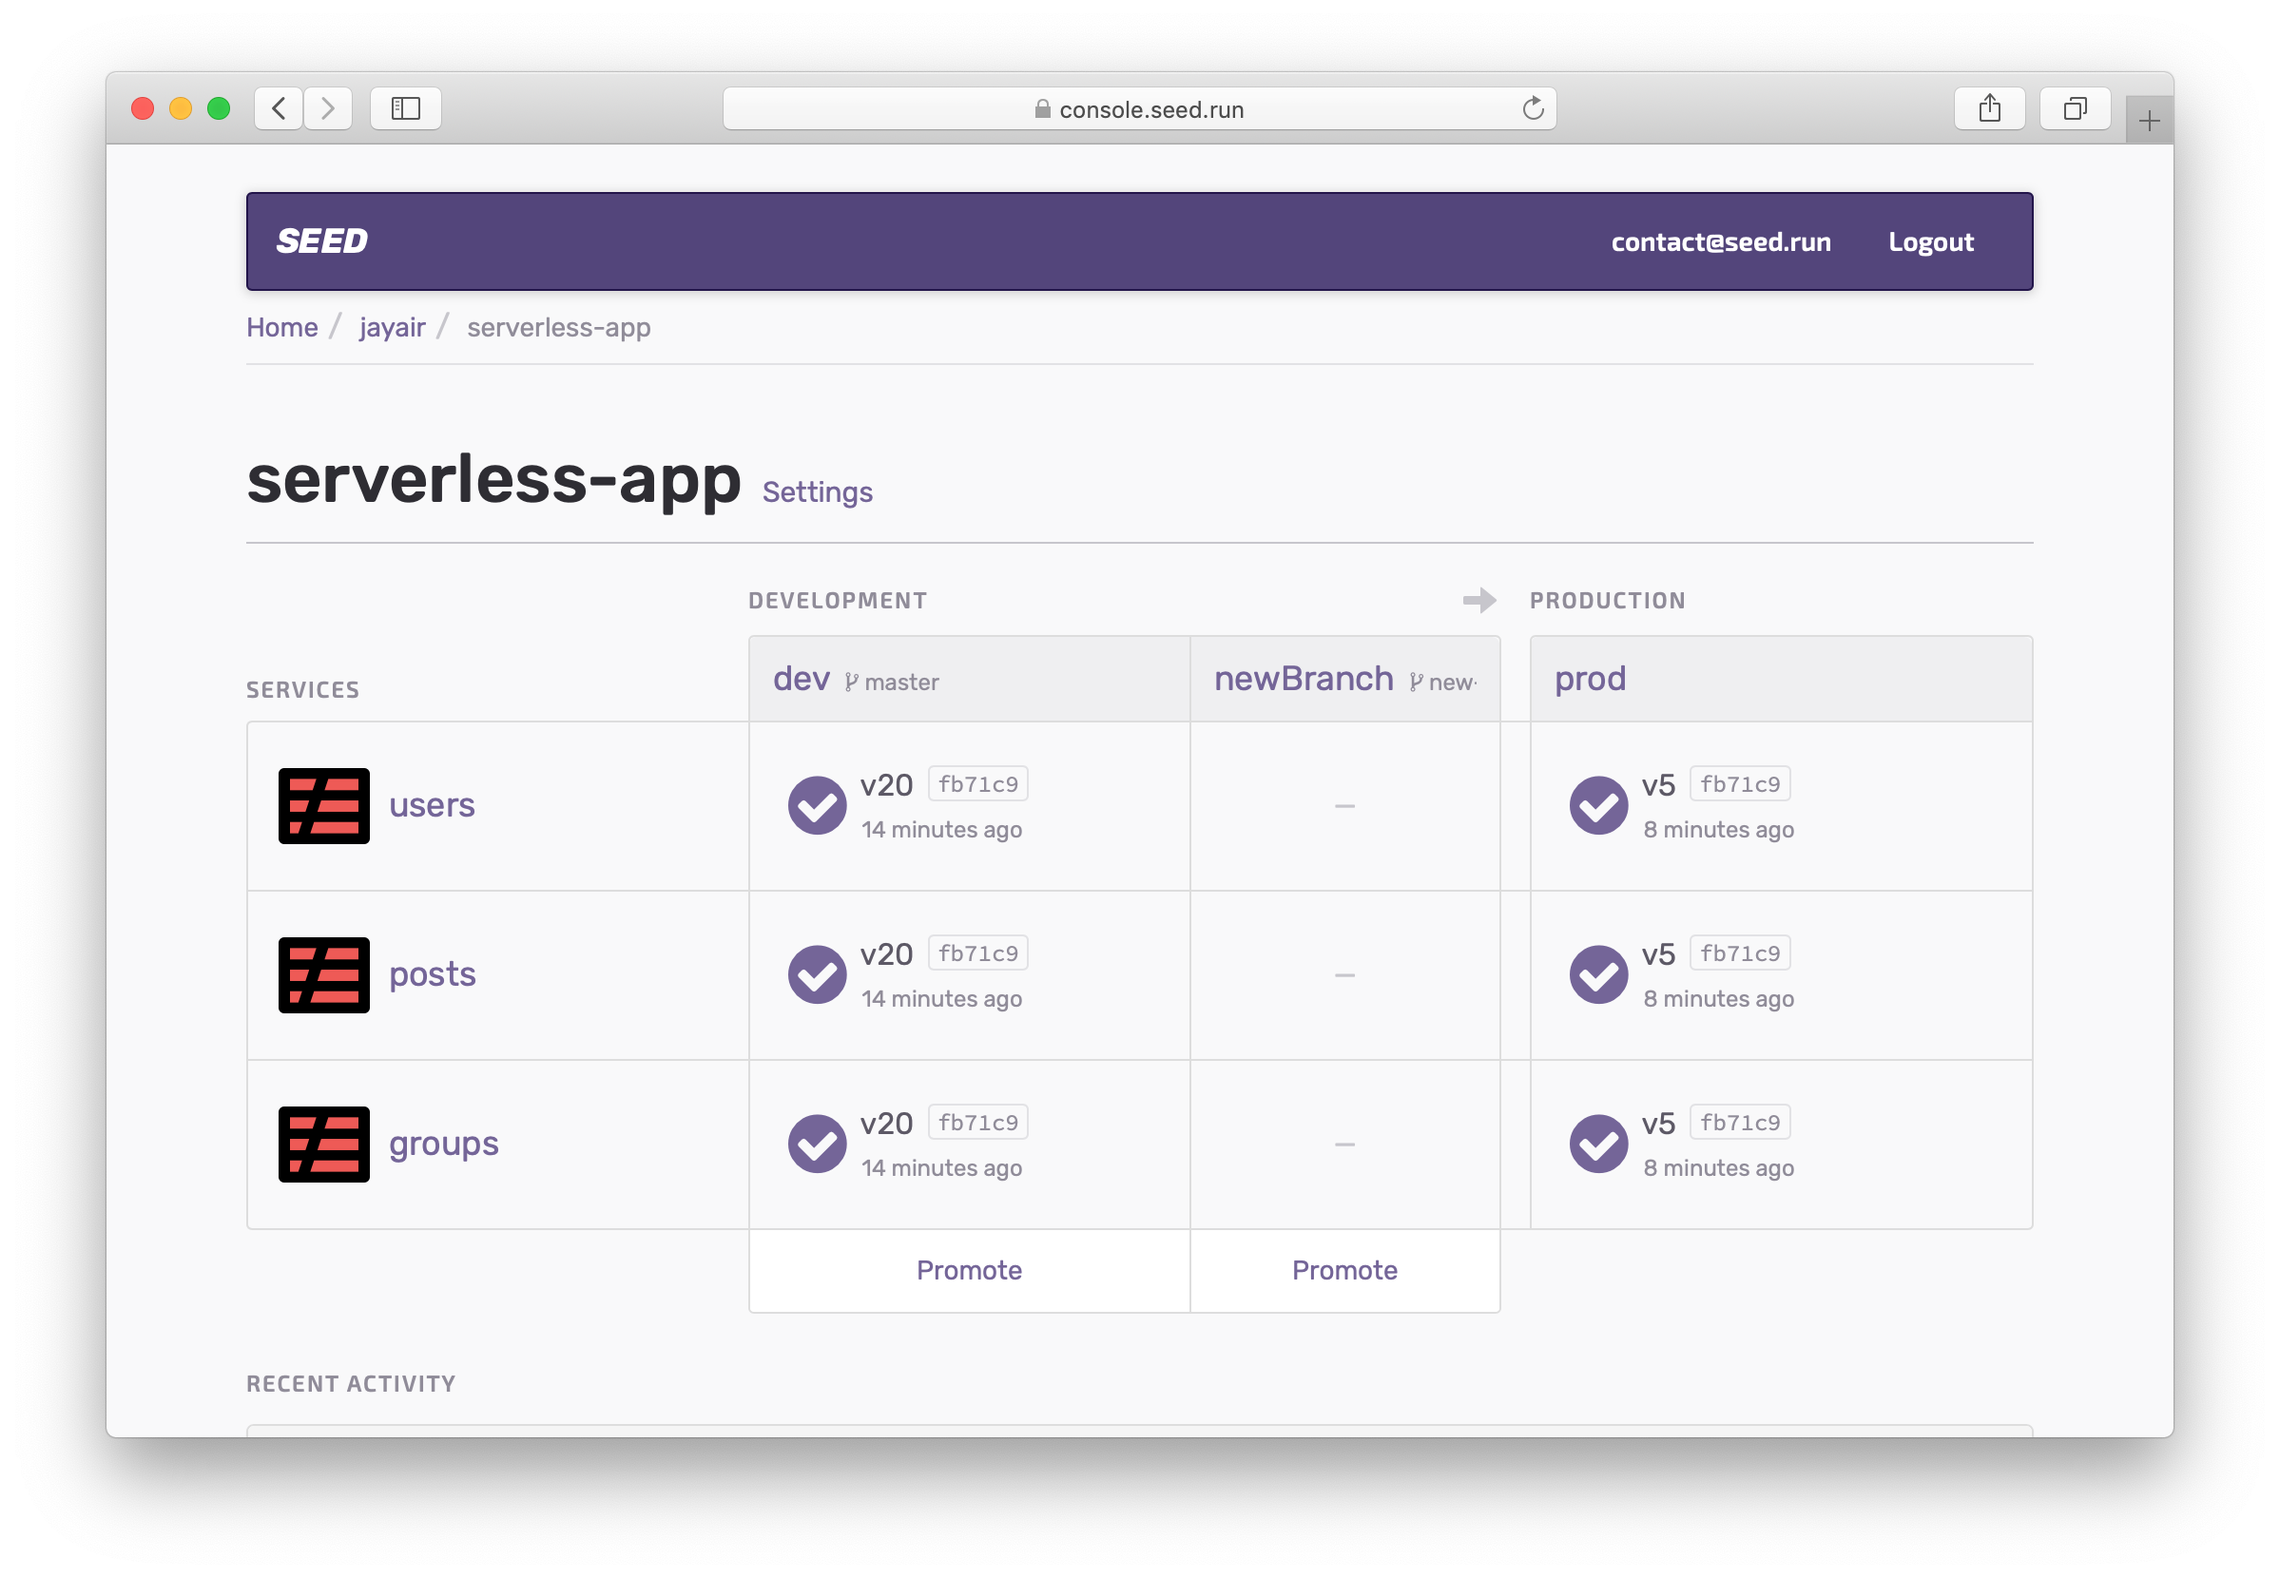
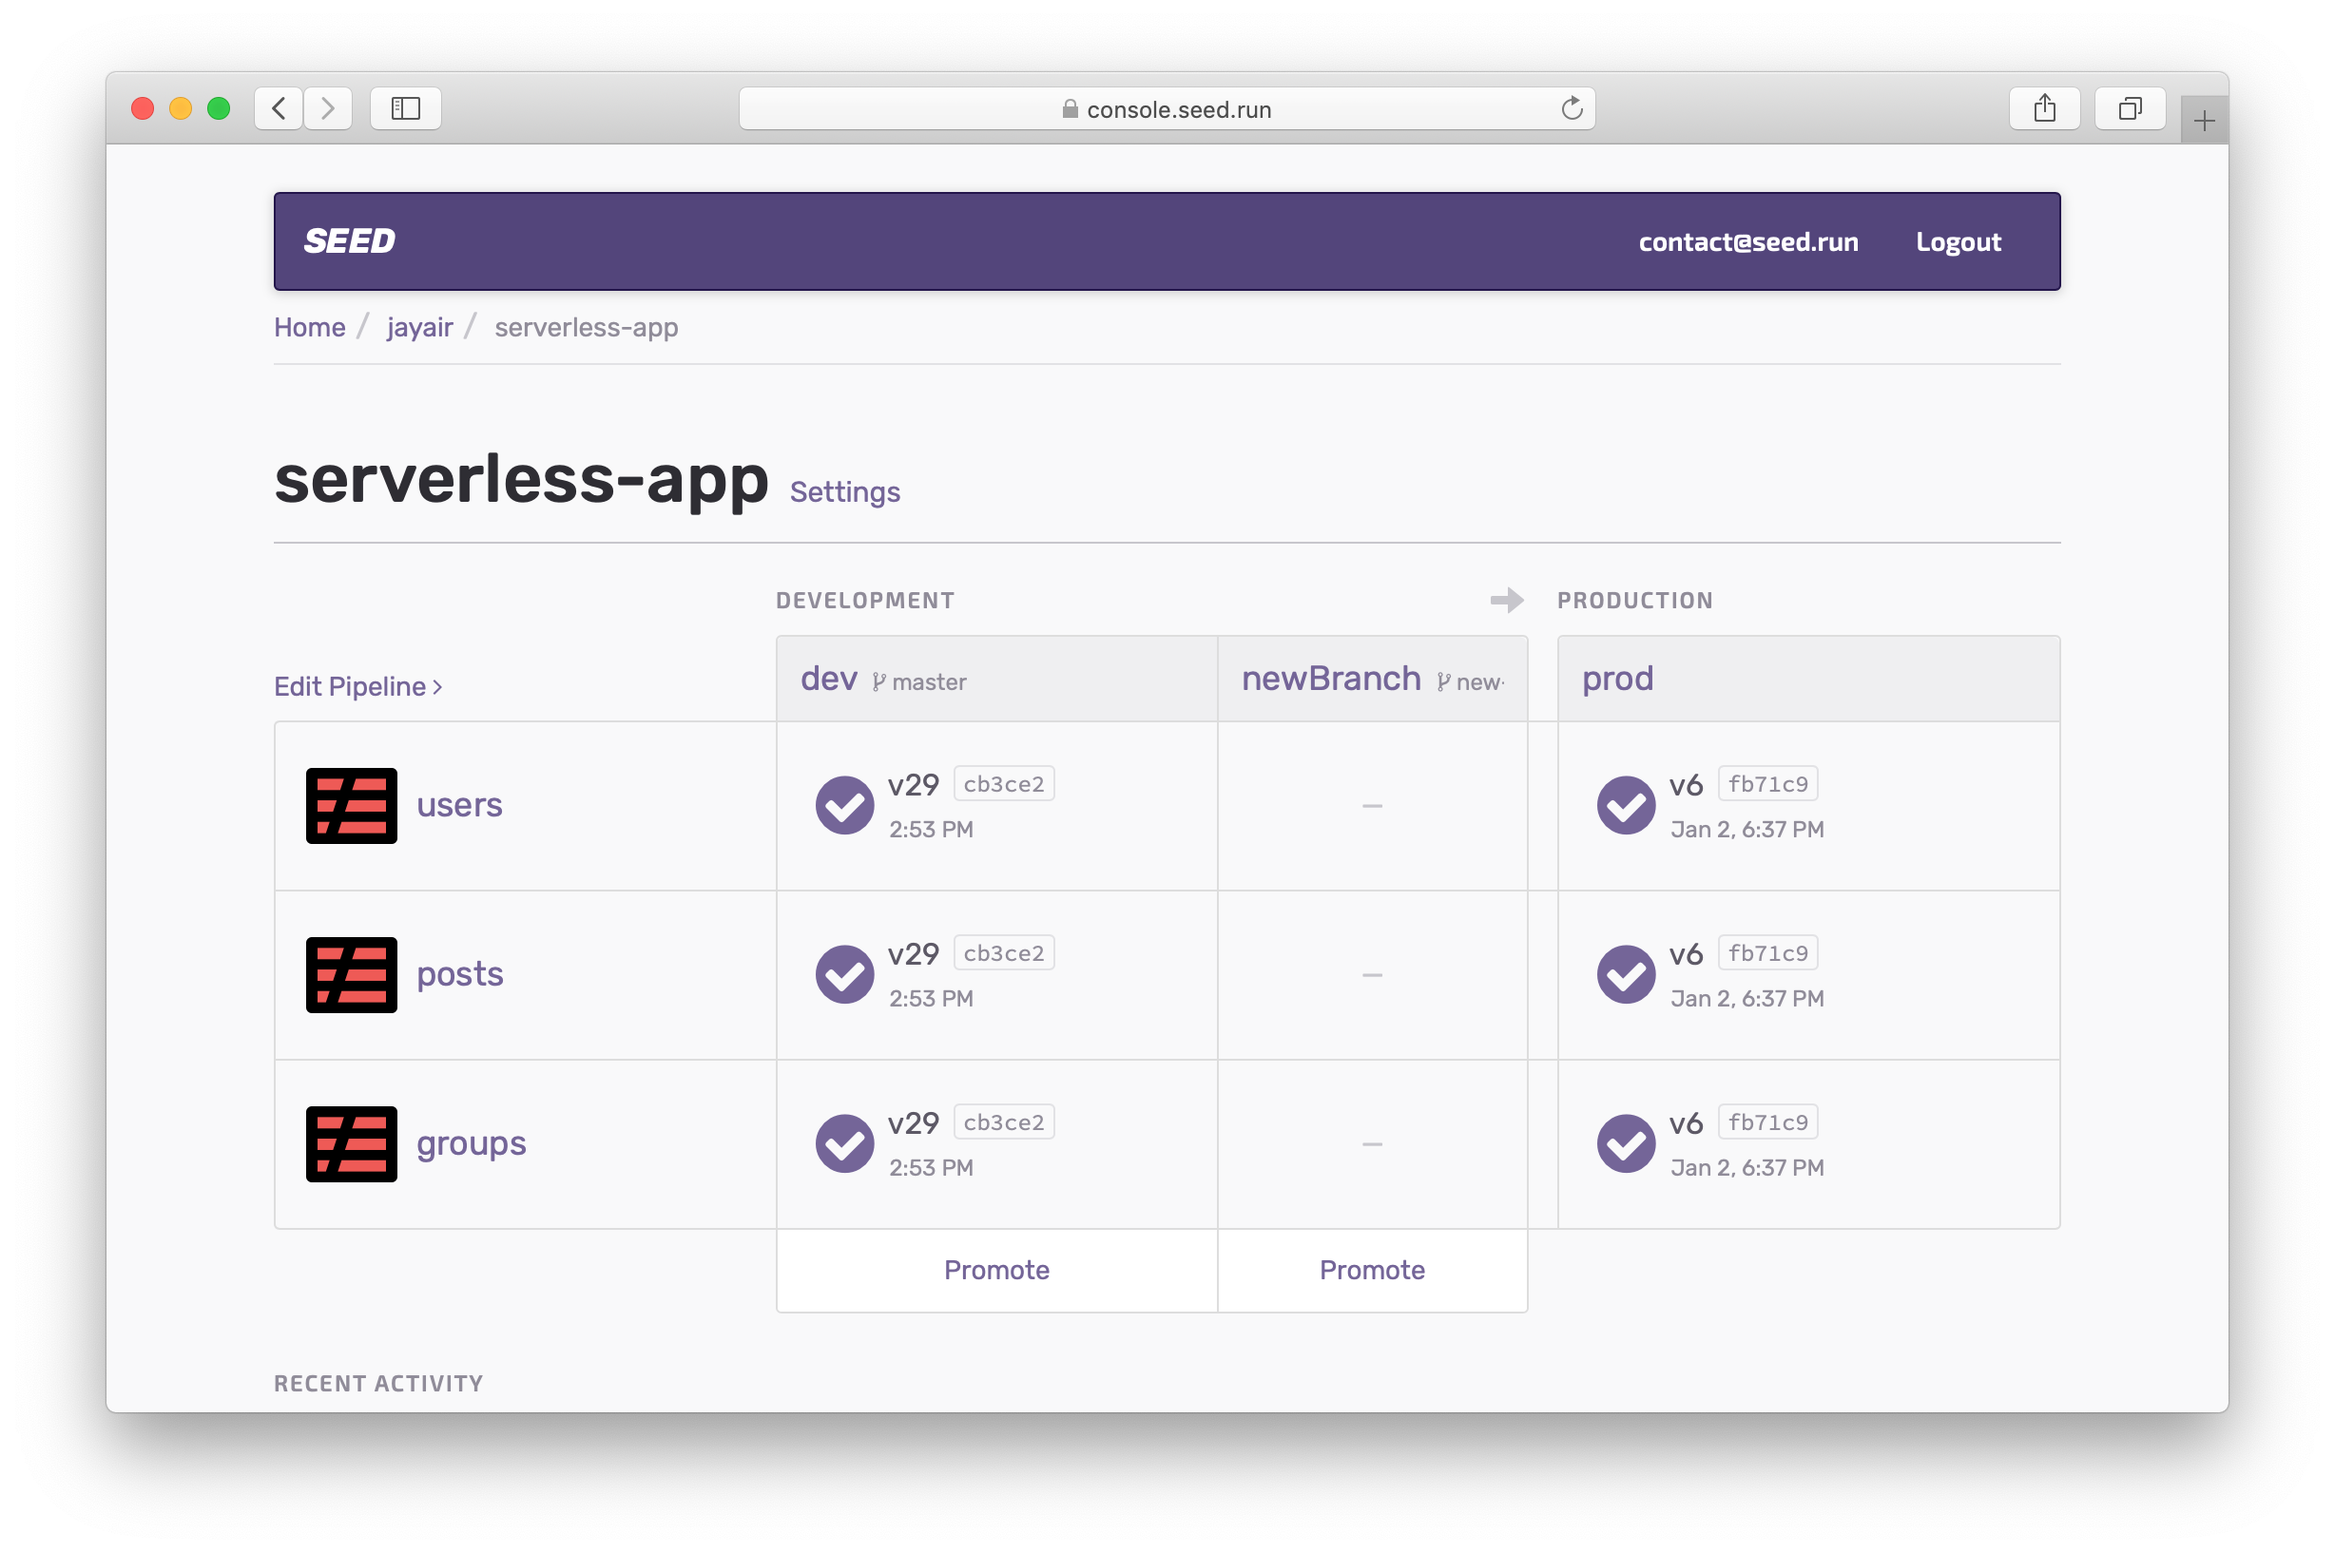
Edit Pipeline - Add doc - Add blog post - Update add stage chapter

diff --git a/_docs/editing-the-pipeline.md b/_docs/editing-the-pipeline.md
@@ -1,0 +1,38 @@
+---
+layout: docs
+title: Editing the Pipeline
+---
+
+By default, apps in Seed are configured with a development and production stage. In the [Adding a Stage]({% link _docs/adding-a-stage.md %}) chapter we covered how to add other development stages. However, you might want to add another downstream stage. Or you might want to replace the production stage. Seed allows you to do this through the pipeline editor. In this chapter we'll look at how to edit your pipeline on Seed.
+
+> Edit your Seed pipeline to add a downstream stage
+
+You can enter the pipeline editor by either clicking the **Edit Pipeline** link from your app's homepage.
+
+![Click edit pipeline from homepage](/assets/docs/editing-the-pipeline/click-edit-pipeline-from-homepage.png)
+
+Or by going to the app **Settings** and hitting **Edit Pipeline**.
+
+![Click edit pipeline from settings](/assets/docs/editing-the-pipeline/click-edit-pipeline-from-settings.png)
+
+The pipeline editor gives you the ability to move stages around and add new stages.
+
+![View edit pipeline](/assets/docs/editing-the-pipeline/view-edit-pipeline.png)
+
+Here you can add a new stage by hitting the **Add a Stage** button. We talk about this in detail in the [Adding a Stage]({% link _docs/adding-a-stage.md %}) chapter.
+
+![Add new stage in pipeline](/assets/docs/editing-the-pipeline/add-new-stage-in-pipeline.png)
+
+### Add a Staging (or Pre-Production) Stage
+
+Supposed you want a staging stage that closely mirrors your production environment. You can set a stage as staging by hitting the **Set as Staging** button. Note that PR stages cannot be set as staging or production.
+
+![Click set as staging in pipeline](/assets/docs/editing-the-pipeline/click-set-as-staging-in-pipeline.png)
+
+The newly set staging stage is another downstream stage (in addition to your existing production stage). This means that when you promote a build from a development stage, it will first be promoted to your new staging stage. Here you'll get a chance to test the changes before promoting once again to your production stage.
+
+This flow is visualized in the pipeline in your app's homepage.
+
+![View new pipeline](/assets/docs/editing-the-pipeline/view-new-pipeline.png)
+
+Finally, you can revert this change by hitting the **Set as Development** button. You can also replace your current production stage by hitting the **Set as Production** button.

diff --git a/_docs/adding-a-stage.md b/_docs/adding-a-stage.md
@@ -17,9 +17,13 @@ Push the branch to remote.
 $ git push -u origin new-branch
 ```
 
-Go to Seed console, navigate to your app, hit **Settings**, and **Create a Stage**.
+Go to the Seed console, and click the **Edit Pipeline** link. You can also head over to your app **Settings** and click **Edit Pipeline** there.
 
-![Click Create a Stage Button](/assets/docs/adding-a-stage/click-create-a-stage.png)
+![Click edit pipeline from homepage](/assets/docs/adding-a-stage/click-edit-pipeline-from-homepage.png)
+
+We cover the various aspects of the pipeline editor in the [Editing the Pipeline]({% link _docs/editing-the-pipeline.md %}) chapter. But for now hit the **Add a Stage** button.
+
+![Click add a Stage Button](/assets/docs/adding-a-stage/click-add-a-stage.png)
 
 Select a branch (for example, `new-branch`) from the drop down, give it a **Stage Name**, and select **Create Stage**. A default stage name is pre-filled based on the branch name, you can select a different name.
 
@@ -44,3 +48,5 @@ If the build is successful and tests pass, all the services get deployed to this
 Once a stage has been added, Seed will automatically create a new build when you `git push` to the update the remote branch.
 
 Finally, you can configure Seed to automatically create and remove stages when a new Git branch is created or removed. You can read more about this in the [Working with Branches chapter]({% link _docs/working-with-branches.md %}).
+
+You can also set a stage to replace your production stage or set it as a pre-production (or staging) stage. You can read about this in detail in the [Editing the Pipeline]({% link _docs/editing-the-pipeline.md %}) chapter.

diff --git a/_posts/2019-02-11-pre-production-stages.md b/_posts/2019-02-11-pre-production-stages.md
@@ -1,0 +1,13 @@
+---
+layout: post
+title: Pre-Production Stages
+author: frank
+---
+
+Seed now allows you to configure pre-production (or staging) stages right from the console.
+
+![Edit Seed pipeline](/assets/blog/pre-production-stages/edit-seed-pipeline.png)
+
+We just rolled out a brand new Pipeline Editor. The new editor lets you [add stages]({% link _docs/adding-a-stage.md %}), set a pre-production or staging stage, or even replace your current production stage. The new editor gives you complete flexibility over your pipeline on Seed.
+
+You can read more about [our new pipeline editor in our docs]({% link _docs/editing-the-pipeline.md %}). Setting multiple downstream stages is just one way Seed makes it really easy to manage your CI/CD pipeline for Serverless Framework on AWS.
